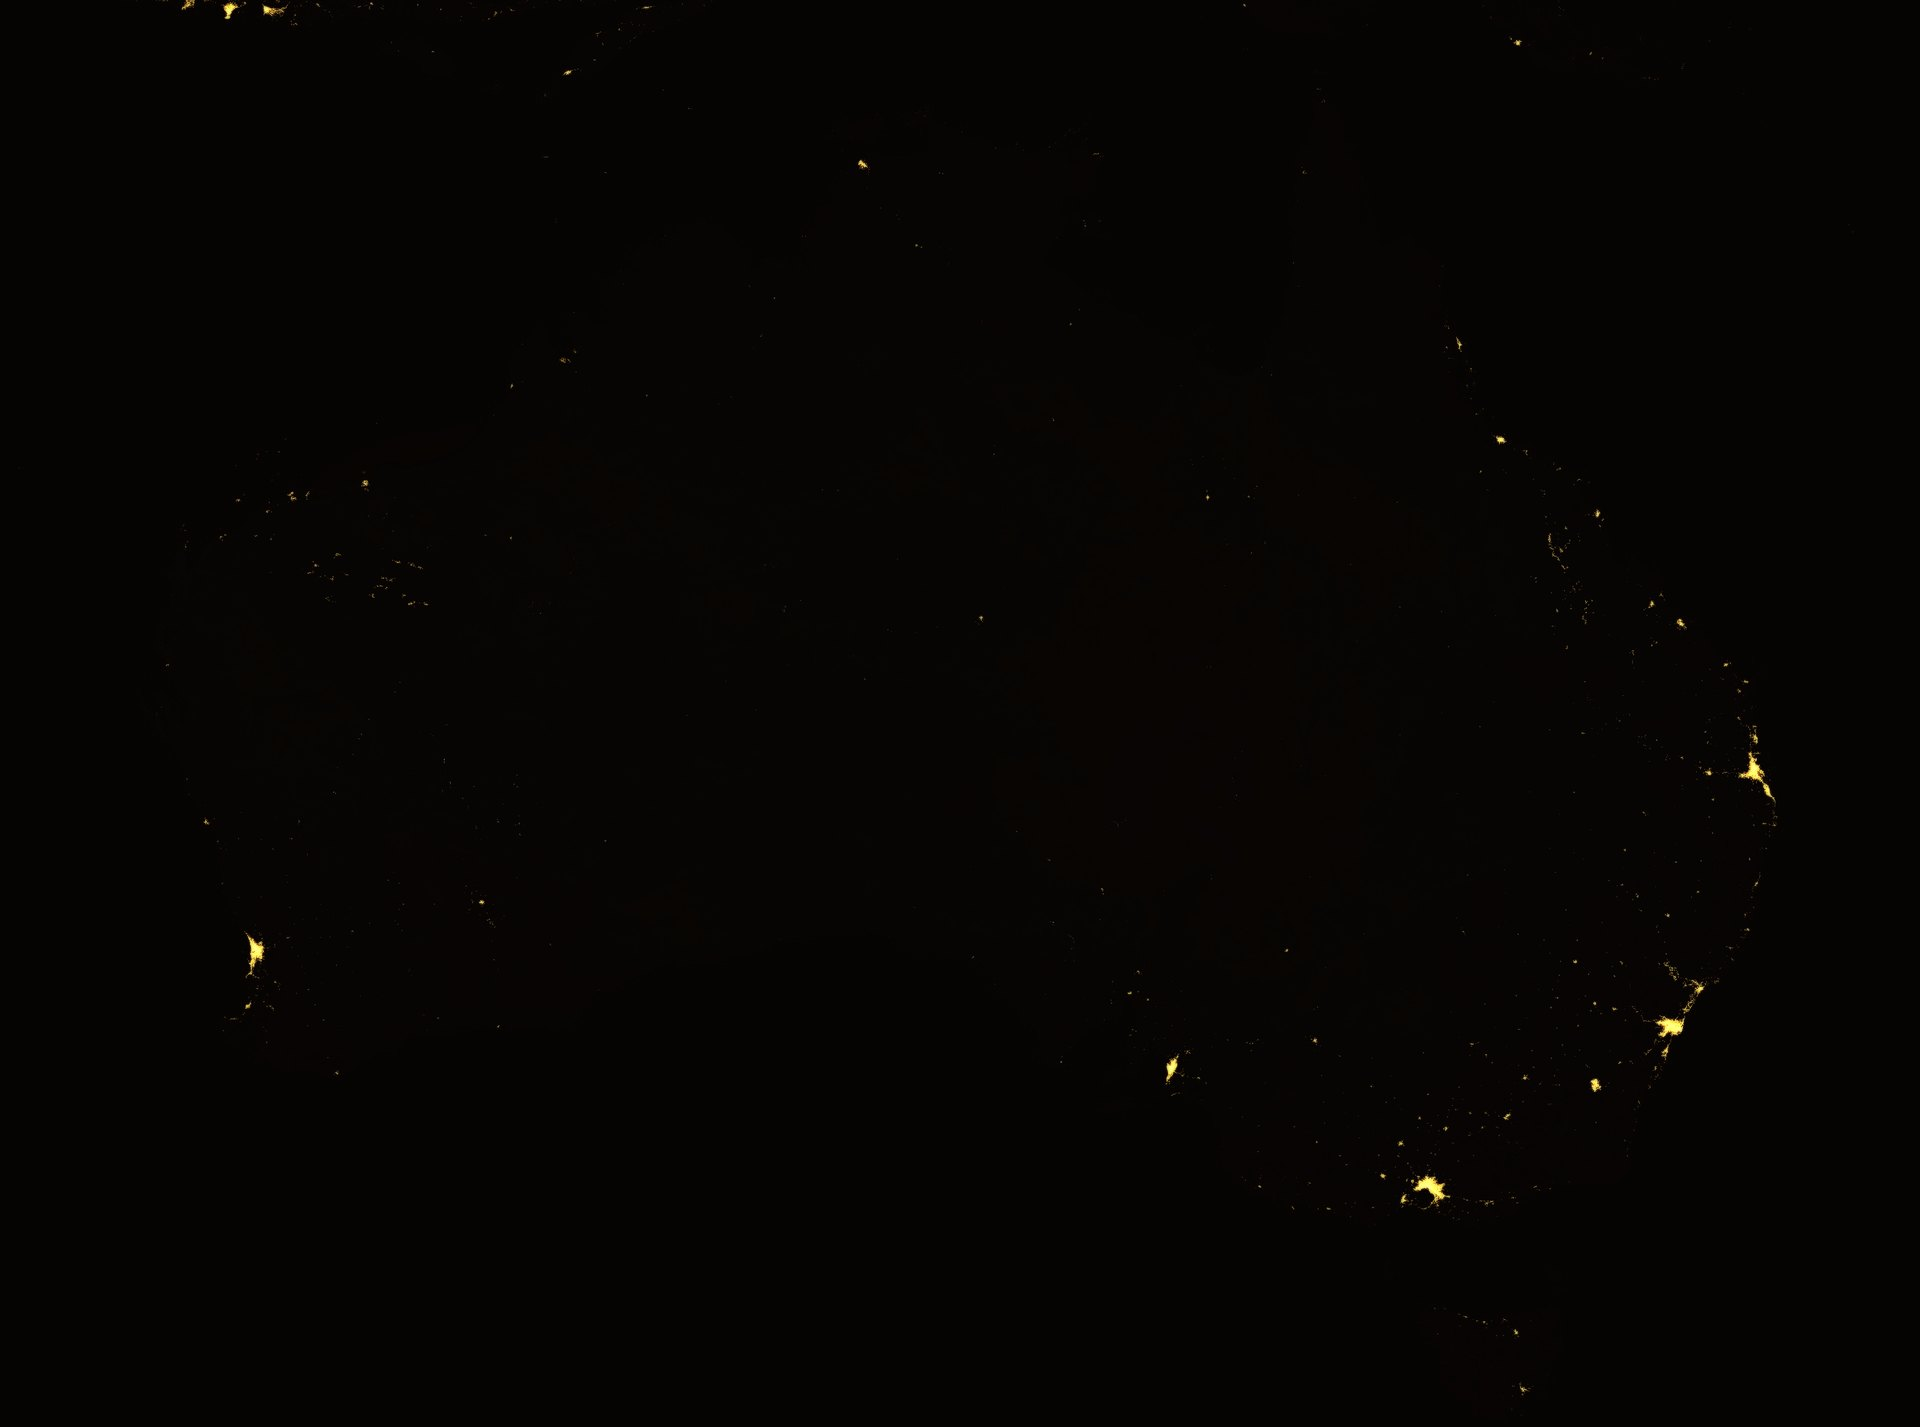
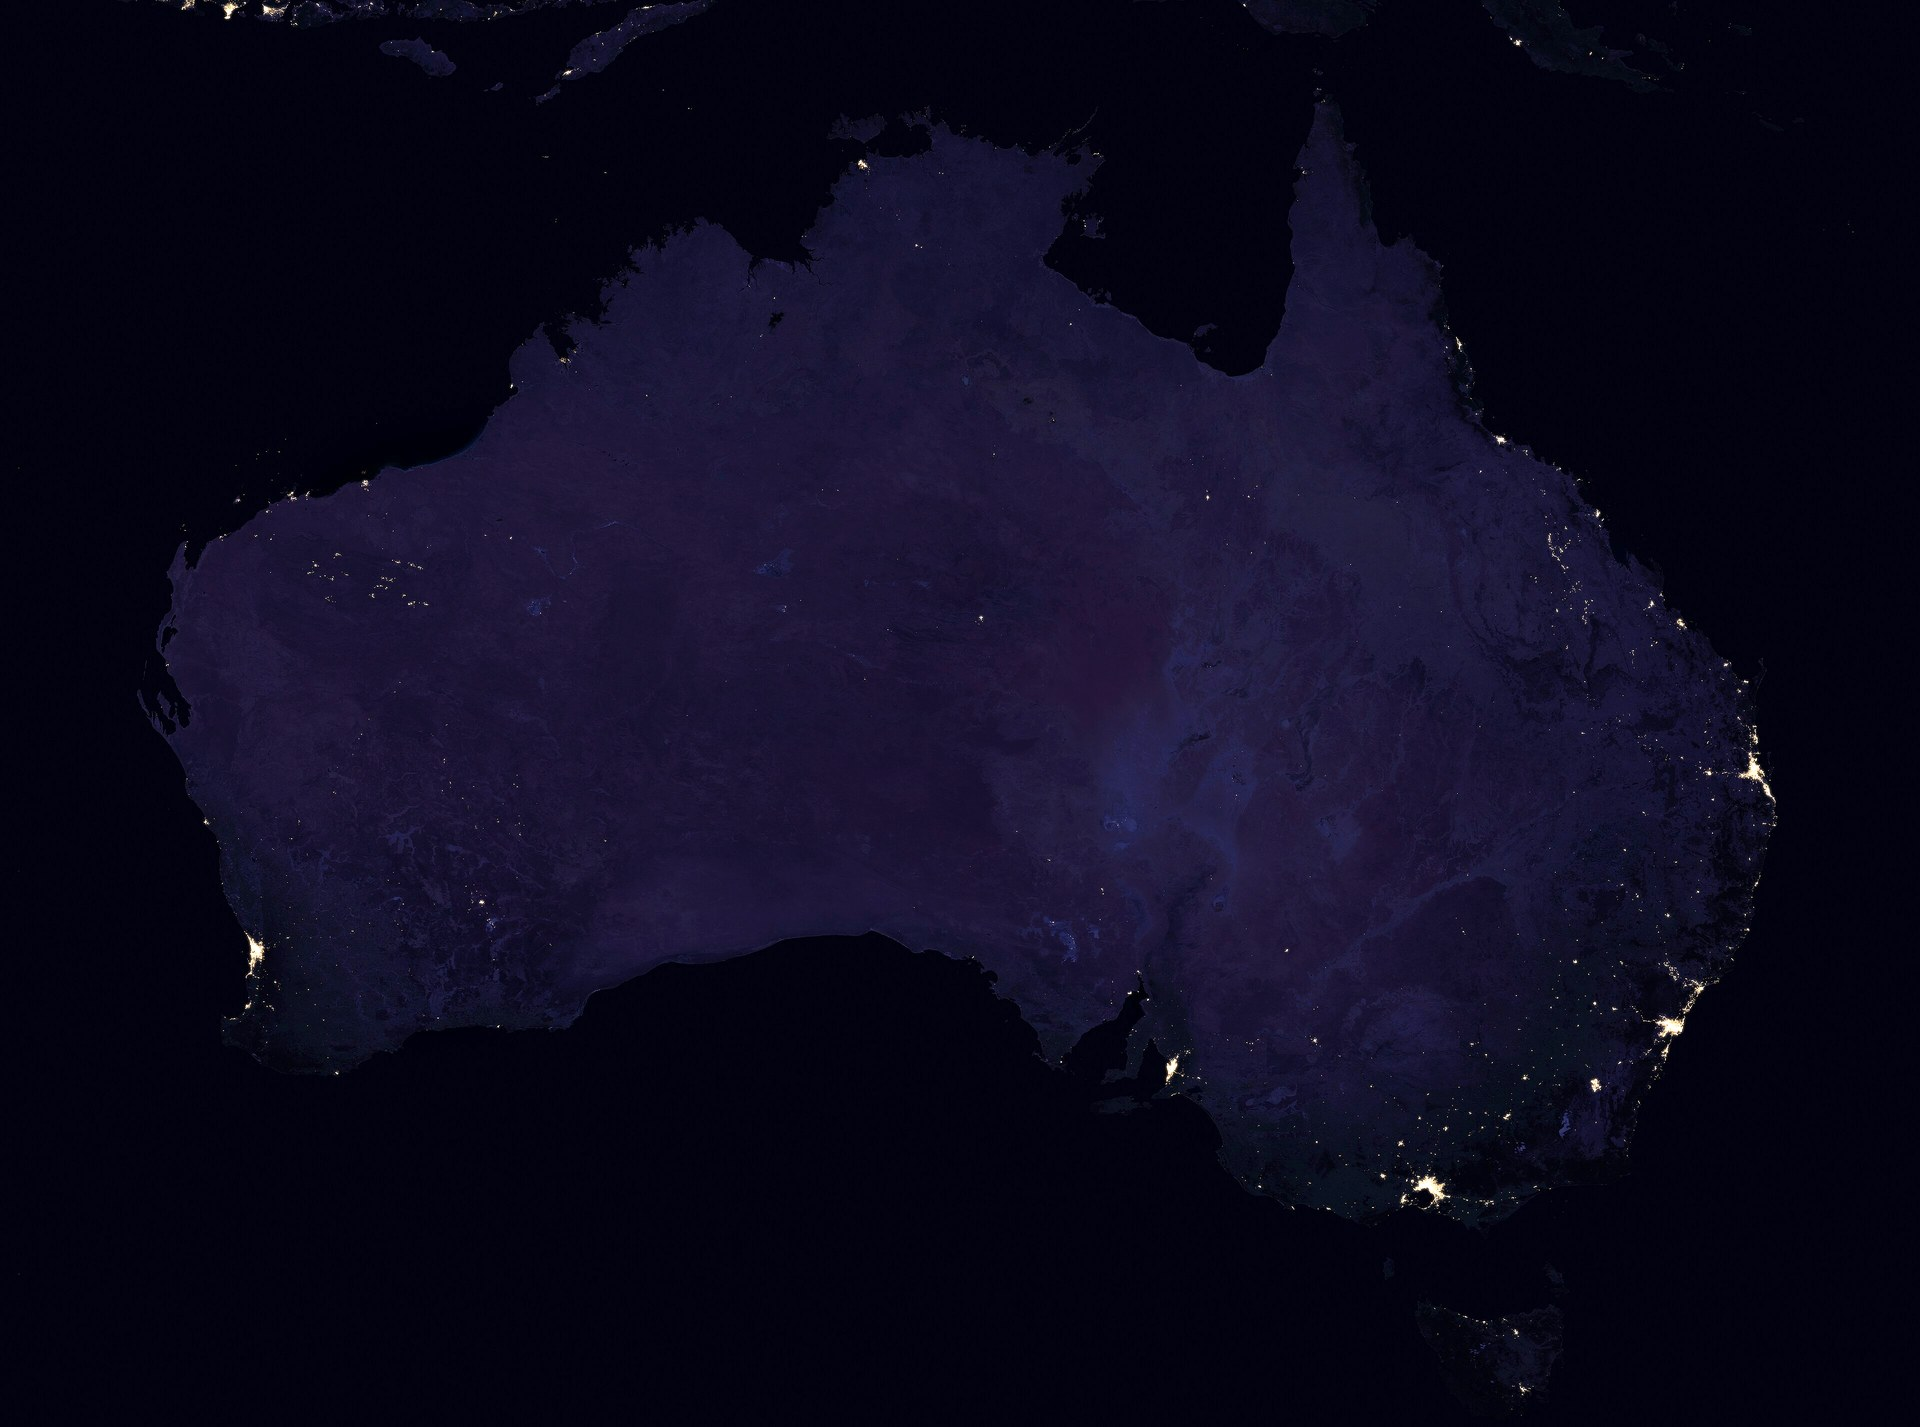
Map: NASA night you can actually see.
The last grades crushed mean RGB to ~6. Restored the Black Marble plate so the continent reads. No cities invented.

diff --git a/index.html b/index.html
@@ -35,7 +35,7 @@
 </nav>
 
 <div class="hero-stage">
-  <img src="images/map-australia-night.jpg" alt="Australia at night — city lights on a dark continent. NASA Black Marble, Suomi NPP VIIRS, 2016 composite.">
+  <img src="images/map-australia-night.jpg" width="1920" height="1427" alt="Australia at night — city lights on a dark continent. NASA Black Marble, Suomi NPP VIIRS, 2016 composite.">
   <a class="scroll-cue" href="#copy">The south</a>
 </div>
 
@@ -60,7 +60,7 @@
     <p>That instinct is worth taking seriously again, at a different scale. A civilisation reaching for more than one world has the same problem the old maps had: everything is concentrated at the top, and the bottom is a blank that someone assumes will sort itself out. The blank is where the redundancy has to go.</p>
     <p>A night survey lights the coasts. The interior, and the people who were here first, do not show as gold. They are not a blank. Free, Prior and Informed Consent stays above the legal minimum — a standard, not a chorus.</p>
     <p>Appin, Wollondilly, is one named place on that map — Dharawal country, Cataract Gorge. On 17 April 1816 a camp was raided by the 46th Regiment; at least fourteen people were killed. The site was added to the NSW Heritage Register in 2022. On 24 July 1979 fourteen men died in the Appin colliery methane explosion. Aerotropolis West sits in the same south-west basin. That is not one nation claimed for the whole of Western Sydney, and it is not a site selection. It is why the unlit interior is not treated as empty, and why the dead are not a hook.</p>
-    <p class="source-link">Map: NASA Black Marble 2016 (Suomi NPP VIIRS). Public domain. Credit: NASA Earth Observatory / Joshua Stevens, VIIRS data Miguel Román, NASA GSFC. Presentation: still home. Coasts lit. Interior hematite-dark, not empty. No logo. No cities added.</p>
+    <p class="source-link">Map: NASA Black Marble 2016 (Suomi NPP VIIRS). Public domain. Credit: NASA Earth Observatory / Joshua Stevens, VIIRS data Miguel Román, NASA GSFC. Presentation: NASA lights as recorded — not crushed to a black slab. Interior unlit because it is unlit. No cities added.</p>
   </div>
 </section>
 
